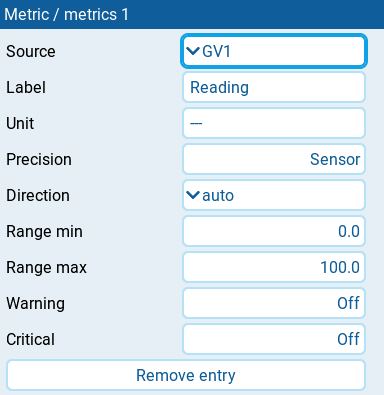
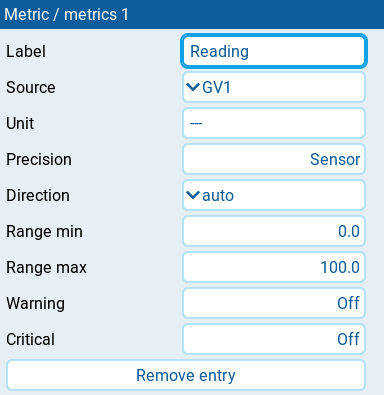
Fix metric fallback names and entry drawer field ordering (#169)
* Fix editor entry labels and Label-first subdrawer ordering

Use explicit list item metadata for unnamed Metric and State rows, and apply the existing Label-first rule to entry drawers without reordering saved entries.

* Refresh Metric entry capture for Label-first ordering

---------

diff --git a/docs/panels/metric.md b/docs/panels/metric.md
@@ -15,7 +15,7 @@ and `GAlt+`. The panel does not derive measurements or convert units.
 
 | Setting | Default | What it does |
 | --- | --- | --- |
-| **Metrics** | none | Up to three readings. The first is the headline; the others are supporting readings. Each row shows the entry's label (or source) and a summary. Tap **+** to add a reading; the first one starts blank, later ones copy the last entry. |
+| **Metrics** | none | Up to three readings. The first is the headline; the others are supporting readings. Each row shows the entry's label (or source) and a summary; unnamed readings use **Metric 1**, **Metric 2**, and so on. Tap **+** to add a reading; the first one starts blank, later ones copy the last entry. |
 | **Visualization** | none | How the headline reading is drawn: **bar**, **radial**, or **none**. |
 | **Accent** | cyan | Color used for the normal state: **cyan**, **green**, **amber**, or **orange**. Alarm and stale states use the shared state colors instead. |
 
@@ -27,8 +27,8 @@ Tap a reading under **Metrics** to open its settings.
 
 | Setting | Default | What it does |
 | --- | --- | --- |
-| **Source** | required | The EdgeTX numeric source to show: a telemetry sensor, its minimum or maximum (for example `GAlt-` or `GAlt+`), a global variable, a channel, and so on. |
 | **Label** | source name | Panel heading for the headline reading; caption for supporting readings. Clear it to use the source name. |
+| **Source** | required | The EdgeTX numeric source to show: a telemetry sensor, its minimum or maximum (for example `GAlt-` or `GAlt+`), a global variable, a channel, and so on. |
 | **Unit** | sensor unit | Unit text shown beside the value. It only changes the label, not the number. Clear it to use the sensor's unit. |
 | **Precision** | Sensor | Decimal places, 0 to 3. Step below 0 to reach **Sensor**, which uses the precision EdgeTX reports for the source. |
 | **Direction** | auto | Whether alarms trigger when the value climbs (**rising**) or drops (**falling**). **auto** treats the reading as falling only when both thresholds are set and **Critical** is below **Warning**. |

diff --git a/docs/developer-guide/architecture.md b/docs/developer-guide/architecture.md
@@ -157,7 +157,11 @@ correctly. A list setting
 (`type = "table"`) declares entry `fields` with keys or nested paths, labels,
 types, and appropriate defaults/bounds/choices. The editor uses this schema
 to offer even fields omitted from the YAML, and can remove cleared optional
-fields. Do not build a separate settings UI for each panel.
+fields. List declarations, including nested lists, can set `itemLabel` to a
+singular name such as `"Metric"` or `"State"`. The editor names rows using the
+first nonempty label or source, then `itemLabel` and the one-based index;
+lists without `itemLabel` use `"Entry"`. Do not build a separate settings UI
+for each panel.
 
 The public `theme.lua` API composes palette/state resolution with
 `typography.lua` (measurement, font fitting, unit metrics) and `panel_layout.lua`
@@ -190,8 +194,8 @@ present them; `editor_controller.lua` coordinates them with the live dashboard.
 `layout_store.lua` handles saving, backups, and user-versus-shipped
 resolution; `layout_registry.lua` maintains name-to-choice positions.
 Keep these boundaries intact when changing save behavior.
-Panel settings drawers put **Label** first when declared, preserving the
-declaration order of all remaining controls.
+Panel settings drawers, including entry subdrawers, put **Label** first when
+declared, preserving the declaration order of all remaining controls.
 
 Editing does not overwrite bundled layouts. Save writes to `/AEROGRID/layouts/`,
 and Save As creates a named user layout. The layout registry is initialized
